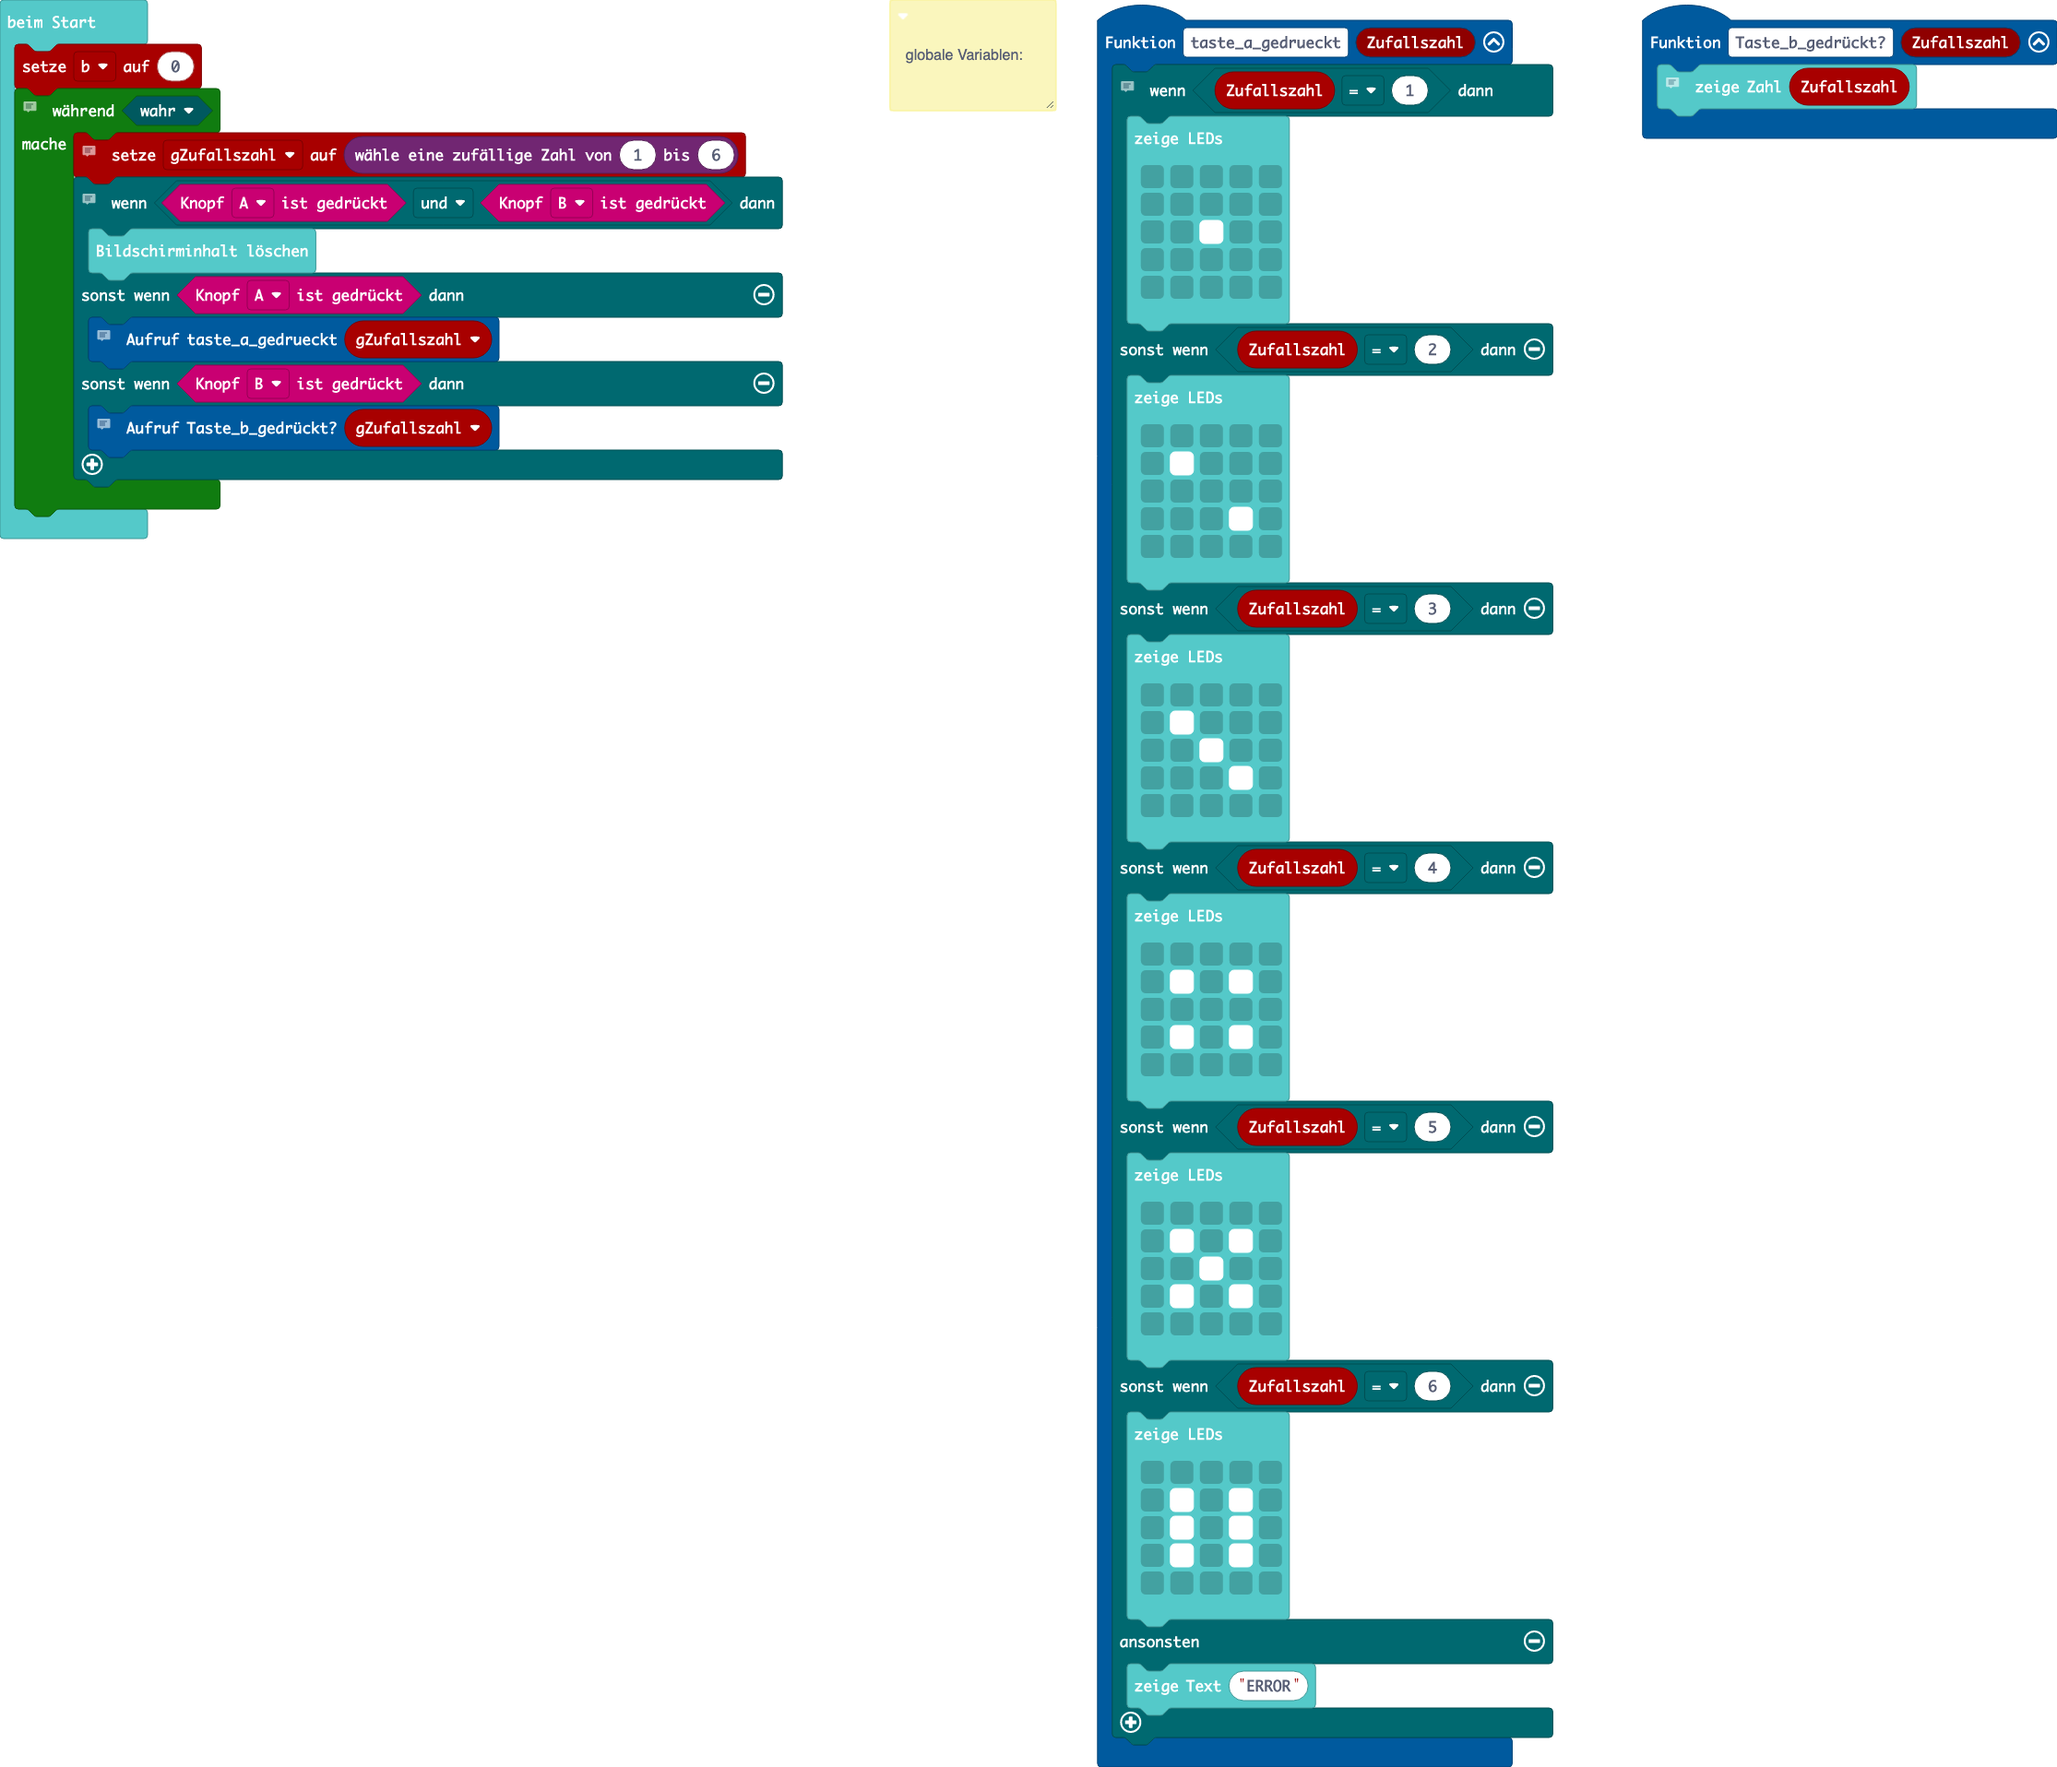
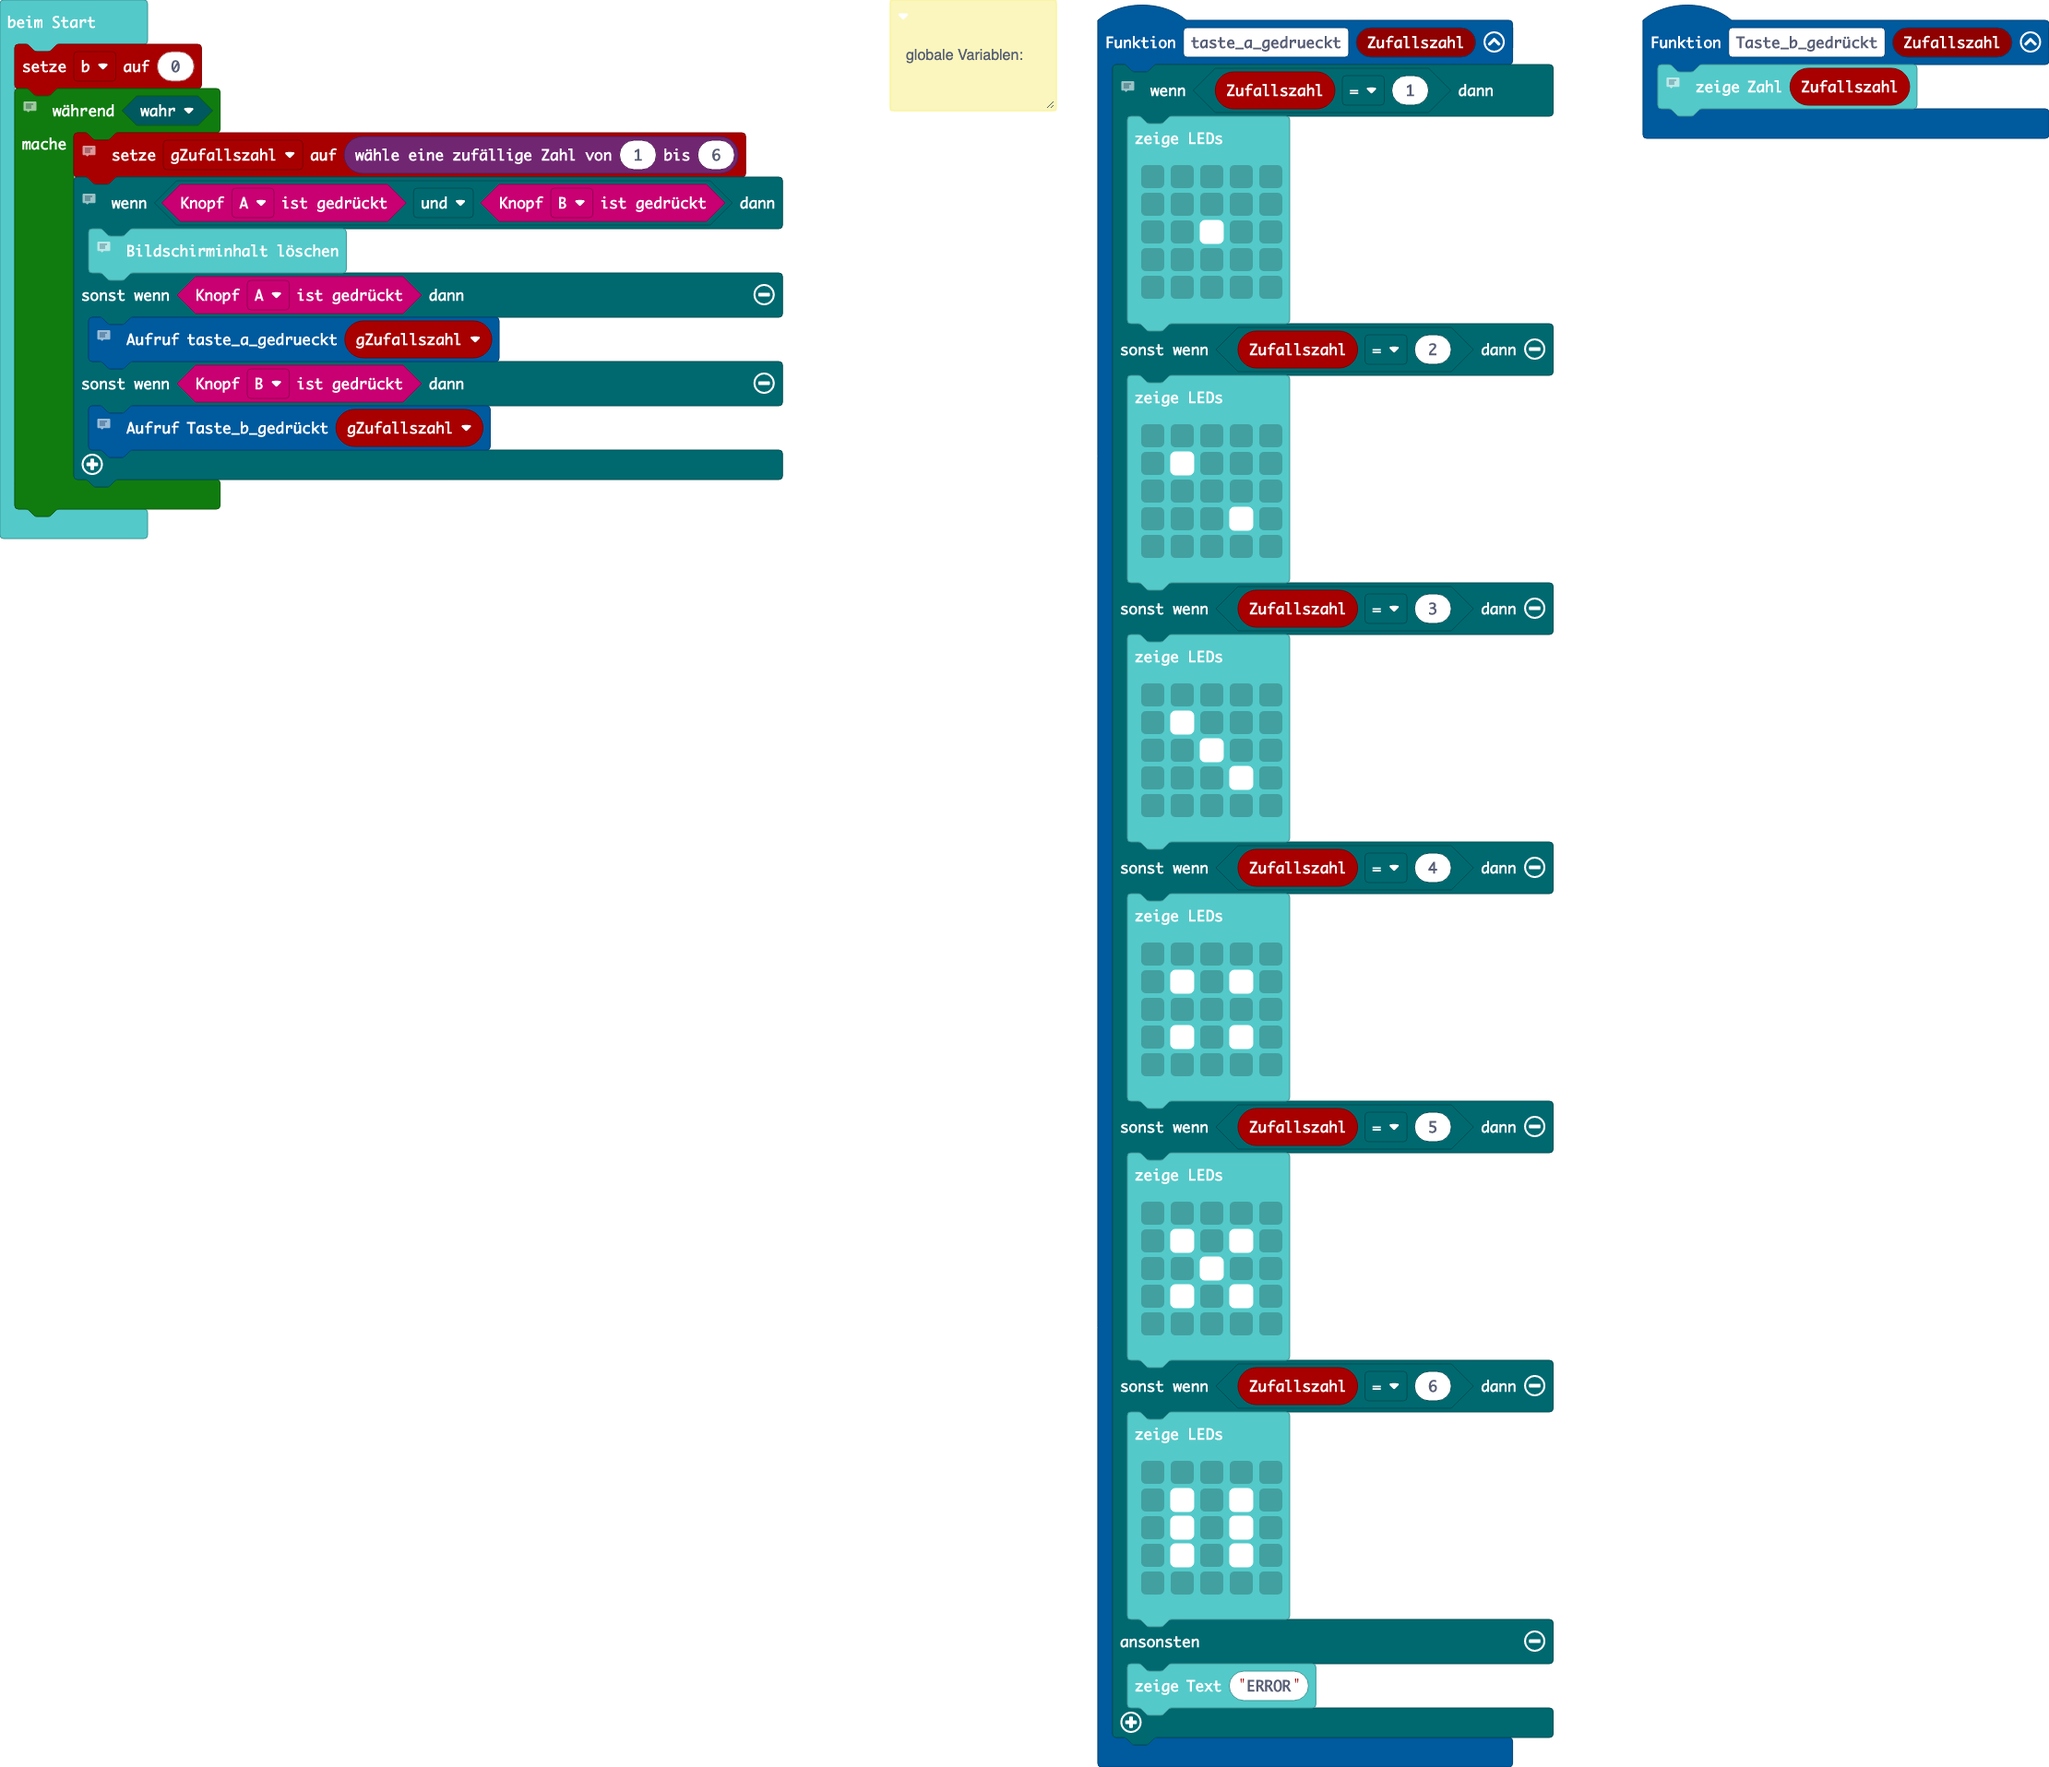
Aktualisiere main.blocks, main.ts, main.py

diff --git a/main.ts b/main.ts
@@ -1,3 +1,8 @@
+function taste_b_gedrückt(Zufallszahl: number) {
+    //  Anzeige der Zufallszahls als Zahl
+    basic.showNumber(Zufallszahl)
+}
+
 function taste_a_gedrueckt(Zufallszahl: number) {
     //  Anzeige der Zufallszahl als Augen
     if (Zufallszahl == 1) {
@@ -54,11 +59,6 @@ function taste_a_gedrueckt(Zufallszahl: number) {
     
 }
 
-function Taste_b_gedrückt(Zufallszahl: number) {
-    //  Anzeige der Zufallszahls als Zahl
-    basic.showNumber(Zufallszahl)
-}
-
 /** globale Variablen: */
 let gZufallszahl = 0
 let b = 0
@@ -76,7 +76,7 @@ while (true) {
         taste_a_gedrueckt(gZufallszahl)
     } else if (input.buttonIsPressed(Button.B)) {
         //  Nur Taste B
-        Taste_b_gedrückt(gZufallszahl)
+        taste_b_gedrückt(gZufallszahl)
     }
     
 }

diff --git a/main.py b/main.py
@@ -1,3 +1,6 @@
+def taste_b_gedrückt(Zufallszahl: number):
+    # Anzeige der Zufallszahls als Zahl
+    basic.show_number(Zufallszahl)
 def taste_a_gedrueckt(Zufallszahl: number):
     # Anzeige der Zufallszahl als Augen
     if Zufallszahl == 1:
@@ -50,9 +53,6 @@ def taste_a_gedrueckt(Zufallszahl: number):
             """)
     else:
         basic.show_string("ERROR")
-def Taste_b_gedrückt(Zufallszahl: number):
-    # Anzeige der Zufallszahls als Zahl
-    basic.show_number(Zufallszahl)
 """
 
 globale Variablen:
@@ -74,4 +74,4 @@ while True:
         taste_a_gedrueckt(gZufallszahl)
     elif input.button_is_pressed(Button.B):
         # Nur Taste B
-        Taste_b_gedrückt(gZufallszahl)
+        taste_b_gedrückt(gZufallszahl)
